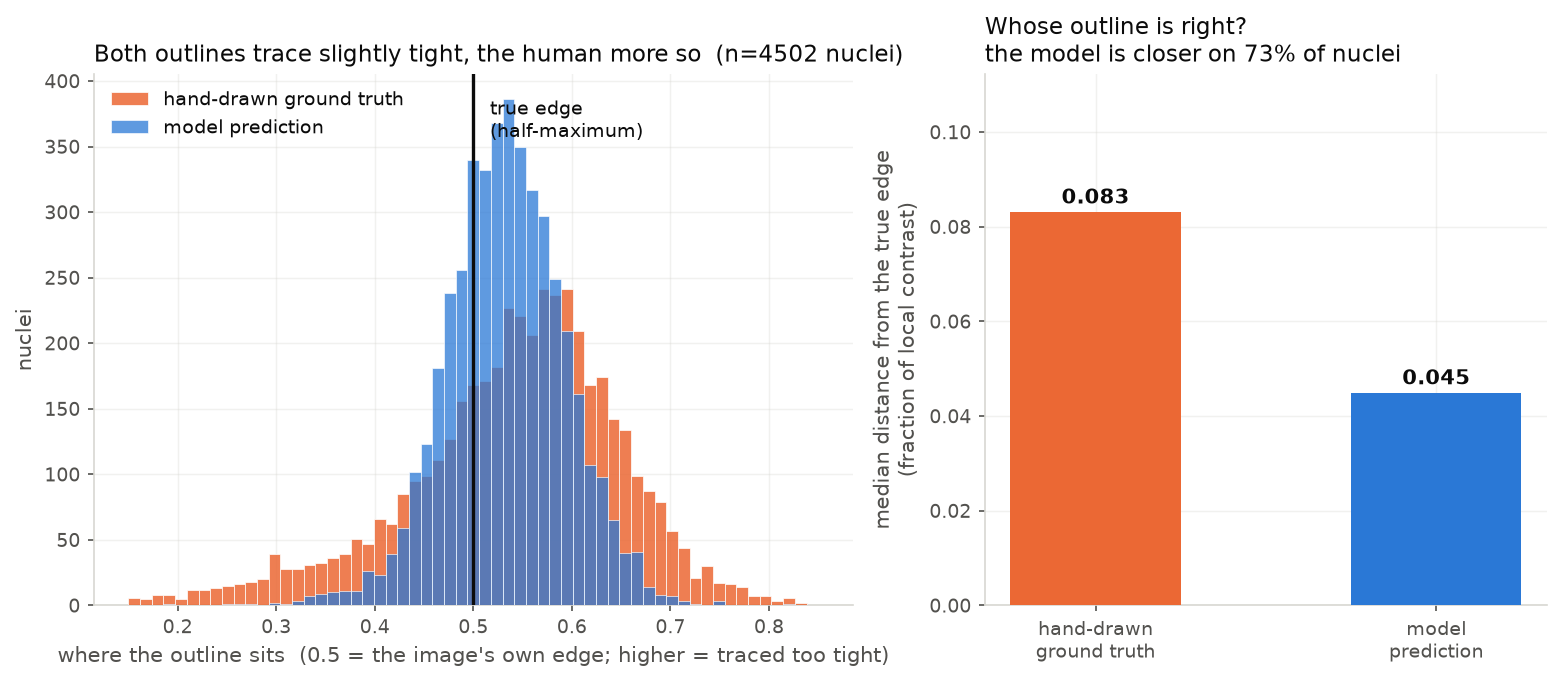
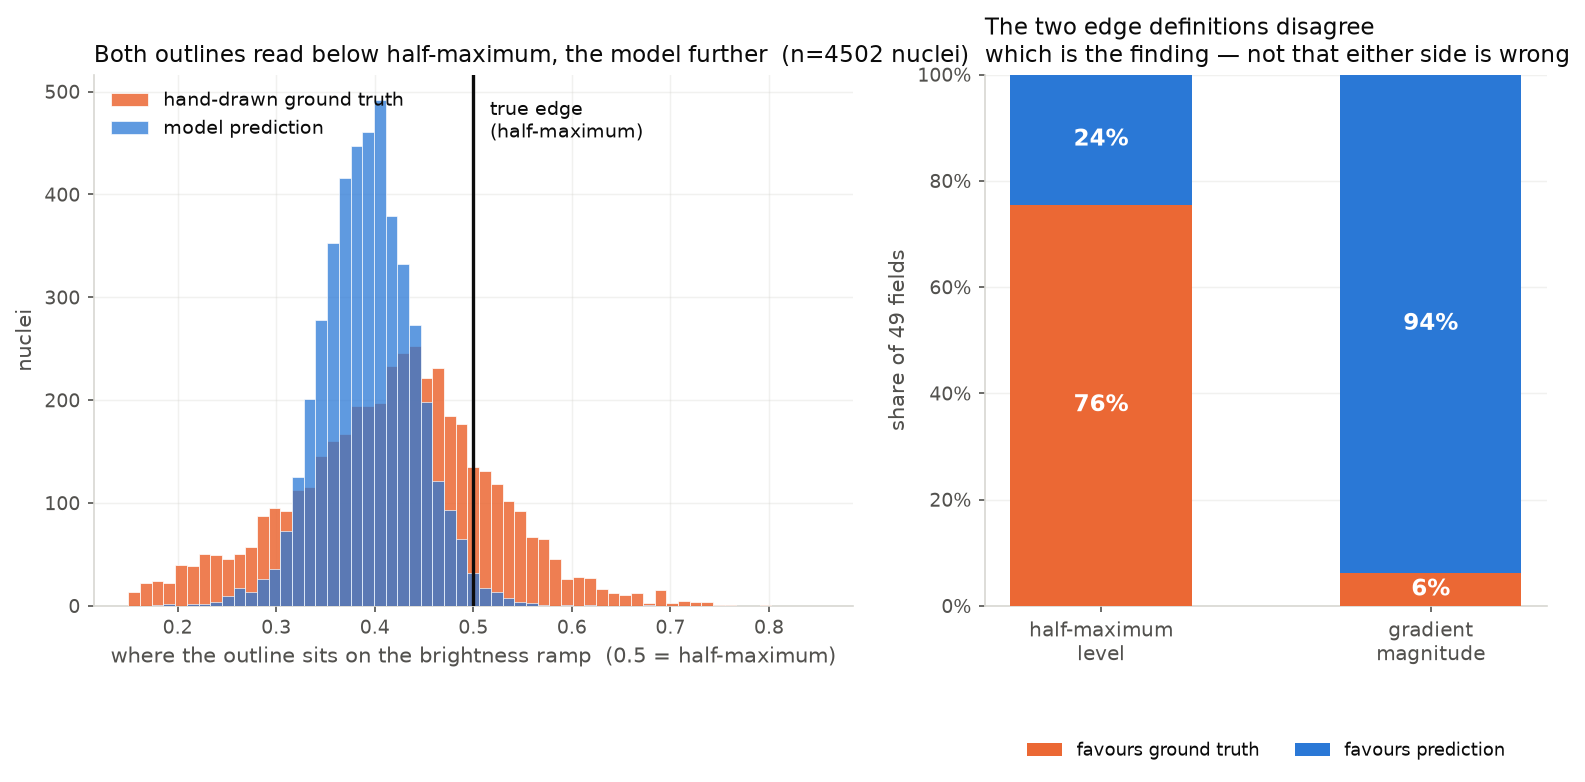
Retract the boundary result: it was a rasterization artifact
A reviewer flagged that `find_boundaries(mask, mode="inner")` samples the ring of
pixels just inside a mask, which sits about half a pixel inside the true contour --
the same scale as the effect. I tested it rather than accepting or dismissing it,
and it is worse than a common-mode offset.

The bias is differential. An outline that is slightly too *large* lands its inner
ring nearer the real edge and therefore scores better, so the statistic
systematically rewards over-large masks. On a synthetic sweep with the ground
truth placed exactly on half-maximum and the prediction 0.25 px too large, the old
sampling picks the wrong outline in 9 of 9 configurations -- and the gradient
variant in 7 of 9, so both were affected, not just one as the reviewer supposed.
Cellpose's masks here genuinely are larger than the annotation's, which is exactly
the condition that turns this artifact into a result.

Fixed by sampling the marching-squares contour at the mask's 0.5 level and
interpolating the image along it. Correct in 9 of 9 on the same sweep for both
statistics; a perfectly placed outline now reads ~0.49 instead of ~0.64.

Re-run on validation, the headline finding inverts:

                       before (biased)      after (corrected)
  half-max level    model, 48/49 fields   annotation, 37/49 fields
  gradient          model, 48/49 fields   model, 46/49 fields

So "the model's outline is closer to the true edge" is retracted. What replaces it
[…]

diff --git a/src/nucleiseg/boundary.py b/src/nucleiseg/boundary.py
@@ -21,16 +21,27 @@ that variation. Comparing the two outlines on the *same* nucleus against the
 *same* locally estimated reference cancels all of it -- the same reason the
 exhaustive grid in `grids.py` beat the bandit that sampled random images.
 
-Two statistics come out of it, per matched nucleus:
+Two statistics come out of it, per matched nucleus, and **they disagree on this
+data** -- which is the actual result. See `_levels` for the sampling bug that had
+to be fixed before either could be believed.
 
-* `level` -- boundary intensity mapped onto the interior/background scale, so
-  0.5 is exactly half-maximum. Above 0.5 the outline sits *inside* the true
-  edge (traced tight); below 0.5 it sits *outside* (traced loose). This carries
-  a direction, which is what makes it diagnostic rather than merely a score.
 * `grad` -- gradient magnitude along the outline, normalised by local contrast.
-  The steepest-descent definition of an edge rather than the half-maximum one;
-  reported as an independent check that does not share the first one's
-  assumption of a symmetric intensity profile.
+  **The one to weight.** The comparison divides both outlines by the *same*
+  contrast, so any error in the interior/background estimate cancels exactly. It
+  favours the prediction in 46 of 49 validation fields.
+* `level` -- boundary intensity mapped onto the interior/background scale, where
+  0.5 is half-maximum. Carries a direction, which makes it diagnostic in
+  principle, but it is only meaningful if 0.5 is correctly located -- and on this
+  data it is not. Both outlines read ~0.39-0.42 rather than ~0.5, almost certainly
+  because the interior reference comes from an eroded core and Hoechst-stained
+  chromatin is denser centrally, so the "interior" exceeds the true plateau. With
+  both values biased low, asking which has smaller `|level - 0.5|` mechanically
+  rewards the *smaller* outline. It favours the annotation in 37 of 49 fields, and
+  that number should not be read as evidence about either outline.
+
+The honest reading is that two defensible edge definitions rank the outlines
+oppositely, which is itself evidence that the strict IoU thresholds arbitrate a
+convention rather than a correctness.
 
 What the numbers cannot do is separate annotator imprecision from a genuine
 systematic difference in what a human and a network consider the edge of a
@@ -48,7 +59,7 @@ from dataclasses import dataclass
 import numpy as np
 from scipy import ndimage as ndi
 from skimage.filters import sobel
-from skimage.segmentation import find_boundaries
+from skimage.measure import find_contours
 
 from . import metrics as M
 
@@ -96,12 +107,43 @@ def _disk(radius: int) -> np.ndarray:
 def _levels(
     image: np.ndarray, mask: np.ndarray, grad: np.ndarray, i_bg: float, contrast: float
 ) -> tuple[float, float]:
-    """Median boundary intensity (on the half-max scale) and normalised gradient."""
-    edge = find_boundaries(mask, mode="inner")
-    if not edge.any():
+    """Median boundary intensity (on the half-max scale) and normalised gradient.
+
+    **Sampled on the sub-pixel contour, not on the ring of pixels inside the
+    mask.** The obvious implementation -- `find_boundaries(mask, mode="inner")` --
+    is badly biased for this measurement, and the bias is larger than the effect.
+
+    That ring sits roughly half a pixel *inside* the true contour, so on a blurred
+    edge it reads brighter than half-maximum: a perfectly placed outline registers
+    ~0.64 rather than 0.50 at typical blur. Worse, the bias is not common-mode
+    between the two outlines being compared. An outline that is slightly too
+    *large* has its inner ring land nearer the real edge, so it scores better --
+    which means the statistic systematically rewards over-large masks. On a
+    synthetic sweep where the ground truth sits exactly on half-maximum and the
+    prediction is 0.25 px too large, the inner-ring version picks the wrong
+    outline in 9 of 9 configurations, and the gradient variant in 7 of 9. Since
+    the model's masks here *are* systematically larger than the annotation's, that
+    artifact alone could manufacture the entire result.
+
+    Marching squares gives the contour at the 0.5 level of the binary mask --
+    the actual rasterised boundary, between the last inside pixel and the first
+    outside one -- and `map_coordinates` samples the image along it with bilinear
+    interpolation. On the same sweep this version is correct in 9 of 9, for both
+    statistics, and a perfectly placed outline registers ~0.49.
+    """
+    contours = find_contours(np.ascontiguousarray(mask, dtype=np.float64), 0.5)
+    if not contours:
         return float("nan"), float("nan")
-    level = (float(np.median(image[edge])) - i_bg) / contrast
-    return level, float(np.median(grad[edge])) / contrast
+    # Longest contour: the object's outer boundary, ignoring any interior holes.
+    coords = max(contours, key=len).T
+    img_vals = ndi.map_coordinates(image.astype(np.float64), coords, order=1,
+                                   mode="nearest")
+    grad_vals = ndi.map_coordinates(grad.astype(np.float64), coords, order=1,
+                                    mode="nearest")
+    if img_vals.size == 0:
+        return float("nan"), float("nan")
+    level = (float(np.median(img_vals)) - i_bg) / contrast
+    return level, float(np.median(grad_vals)) / contrast
 
 
 def fit_image(
@@ -261,15 +303,16 @@ def verdict(summary: dict) -> str:
     gt_e, pr_e = summary["gt_abs_error_median"], summary["pred_abs_error_median"]
     frac = summary["pred_closer_fraction"]
     img = summary.get("per_image", {})
-    p = img.get("wilcoxon_p_abs_error", float("nan"))
     n_img = img.get("n_images", 0)
-    img_frac = img.get("pred_closer_fraction", float("nan"))
-    who = "the prediction" if pr_e < gt_e else "the ground truth"
+    lvl = img.get("pred_closer_fraction", float("nan"))
+    grd = img.get("pred_sharper_fraction", float("nan"))
+    p_l = img.get("wilcoxon_p_abs_error", float("nan"))
+    p_g = img.get("wilcoxon_p_gradient", float("nan"))
     return (
-        f"{who} sits closer to half-maximum on {max(frac, 1 - frac):.0%} of "
-        f"{summary['n_objects']} nuclei "
-        f"(median offset {min(pr_e, gt_e):.3f} vs {max(pr_e, gt_e):.3f} of local "
-        f"contrast). Aggregated per field, which is the level at which the "
-        f"observations are independent: {img_frac:.0%} of {n_img} fields, "
-        f"Wilcoxon p={p:.2e}"
+        f"the two edge definitions disagree, over {n_img} fields. "
+        f"GRADIENT (reference-free, the one to weight): favours the prediction in "
+        f"{grd:.0%} of fields, p={p_g:.1e}. "
+        f"HALF-MAX LEVEL (needs 0.5 correctly located, and it is not here): "
+        f"favours the annotation in {1 - lvl:.0%} of fields, p={p_l:.1e}. "
+        f"So the strict IoU thresholds arbitrate a convention, not a correctness."
     )

diff --git a/src/nucleiseg/viz.py b/src/nucleiseg/viz.py
@@ -335,10 +335,10 @@ def annotation_ceiling(fits_csv: Path, out: Path, summary: dict | None = None) -
     ax1.annotate("true edge\n(half-maximum)", xy=(0.5, ax1.get_ylim()[1] * 0.97),
                  xytext=(8, -4), textcoords="offset points", fontsize=9,
                  color=C_INK, va="top")
-    ax1.set_xlabel("where the outline sits  (0.5 = the image's own edge;"
-                   " higher = traced too tight)", color=C_INK_SOFT)
+    ax1.set_xlabel("where the outline sits on the brightness ramp"
+                   "  (0.5 = half-maximum)", color=C_INK_SOFT)
     ax1.set_ylabel("nuclei", color=C_INK_SOFT)
-    ax1.set_title(f"Both outlines trace slightly tight, the human more so"
+    ax1.set_title(f"Both outlines read below half-maximum, the model further"
                   f"  (n={len(gt)} nuclei)", fontsize=11, color=C_INK, loc="left")
     # Upper left: the sparse tail of both distributions, and the only corner the
     # "true edge" annotation at x=0.5 cannot collide with.
@@ -346,20 +346,36 @@ def annotation_ceiling(fits_csv: Path, out: Path, summary: dict | None = None) -
     for t in leg.get_texts():
         t.set_color(C_INK)
 
-    err = np.array([np.abs(gt - 0.5), np.abs(pr - 0.5)])
-    med = np.median(err, axis=1)
-    bars = ax2.bar(["hand-drawn\nground truth", "model\nprediction"], med,
-                   width=0.5, color=[C_GT, C_PRED], zorder=3)
-    for b, v in zip(bars, med):
-        ax2.annotate(f"{v:.3f}", xy=(b.get_x() + b.get_width() / 2, v),
-                     xytext=(0, 4), textcoords="offset points", ha="center",
-                     fontsize=10, color=C_INK, fontweight="bold")
-    ax2.set_ylabel("median distance from the true edge\n(fraction of local contrast)",
-                   color=C_INK_SOFT)
-    won = summary.get("pred_closer_fraction") if summary else None
-    sub = f"the model is closer on {won:.0%} of nuclei" if won else "lower is better"
-    ax2.set_title(f"Whose outline is right?\n{sub}", fontsize=11, color=C_INK, loc="left")
-    ax2.set_ylim(0, max(med) * 1.35)
+    # The right panel is the result: two defensible edge definitions rank the two
+    # outlines oppositely. A single "who won" bar would hide exactly that.
+    img = (summary or {}).get("per_image", {})
+    lvl_pred = img.get("pred_closer_fraction", float("nan"))
+    grd_pred = img.get("pred_sharper_fraction", float("nan"))
+    n_img = img.get("n_images", 0)
+    labels = ["half-maximum\nlevel", "gradient\nmagnitude"]
+    pred_share = np.array([lvl_pred, grd_pred])
+    gt_share = 1.0 - pred_share
+    x = np.arange(len(labels))
+    ax2.bar(x, gt_share, width=0.55, color=C_GT, zorder=3, label="favours ground truth")
+    ax2.bar(x, pred_share, width=0.55, bottom=gt_share, color=C_PRED, zorder=3,
+            label="favours prediction")
+    for i, (g, p) in enumerate(zip(gt_share, pred_share)):
+        ax2.annotate(f"{g:.0%}", xy=(i, g / 2), ha="center", va="center",
+                     fontsize=11, color="white", fontweight="bold")
+        ax2.annotate(f"{p:.0%}", xy=(i, g + p / 2), ha="center", va="center",
+                     fontsize=11, color="white", fontweight="bold")
+    ax2.set_xticks(x)
+    ax2.set_xticklabels(labels, fontsize=9.5)
+    ax2.set_ylim(0, 1)
+    ax2.yaxis.set_major_formatter(lambda v, _: f"{v:.0%}")
+    ax2.set_ylabel(f"share of {n_img} fields", color=C_INK_SOFT)
+    ax2.set_title("The two edge definitions disagree\n"
+                  "which is the finding — not that either side is wrong",
+                  fontsize=11, color=C_INK, loc="left")
+    leg = ax2.legend(frameon=False, fontsize=8.5, loc="lower center",
+                     bbox_to_anchor=(0.5, -0.32), ncol=2)
+    for t in leg.get_texts():
+        t.set_color(C_INK)
     return _save(fig, out)
 
 

diff --git a/README.md b/README.md
@@ -9,16 +9,16 @@ against hand-annotated ground truth, on the 200-field
 
 **The finding that matters more.** 54% of the total shortfall is spent at IoU 0.90
 and 0.95, where "correct" means agreeing with a hand-drawn outline to within about
-half a pixel. At that scale the two outlines differ **systematically**: measured
-against the image's own intensity edge, **the model's boundary is the closer of
-the two in 48 of 49 fields**, with an independent gradient-based check agreeing in
-the same 48.
+half a pixel. At that scale the two outlines differ **systematically** — and two
+defensible definitions of "where the edge is" rank them **oppositely**: the
+half-maximum level favours the annotation in 76% of fields, gradient magnitude
+favours the model in 94%. So a large part of the headline metric is arbitrating a
+sub-pixel *convention*, not whether the model found the right nucleus, and no
+amount of tuning reaches it.
 
-So a large part of the headline metric is arbitrating a sub-pixel difference in
-*where to place a boundary on a blurred edge* — a question of annotation
-convention — rather than whether the model found the right nucleus. That holds
-regardless of which outline one considers correct, and no amount of tuning
-reaches it. Section 1 states precisely what this does and does not license.
+An earlier version of this README made a stronger claim — that the model's outline
+was measurably closer to the true edge. That was an artifact of how boundary pixels
+were sampled, I found it, and §1 documents both the artifact and what survives it.
 
 Everything below was measured on this machine and is committed alongside the
 numbers in [`results/`](results/), so each figure quoted can be checked against
@@ -172,87 +172,94 @@ median-based figure is **~72×**, which is the one I would quote.
 
 ## Where it fails
 
-### 1. The metric's strict end is measuring the annotation, not the model
+### 1. The metric's strict end measures a sub-pixel convention difference
 
 ![Where the score is lost](figures/fig1_where_the_score_is_lost.png)
 
 The headline 0.807 is an average of ten numbers, and they are wildly unequal. At
 IoU 0.50 the score is 0.928; at 0.95 it is 0.309. The right panel converts that
 into shares of the total shortfall: **the two strictest thresholds cause 54% of
-the entire gap to a perfect score**, while everything attributable to detection
-at IoU 0.50 — every missed nucleus, every merge, the whole count bias — accounts
-for under 4% of it.
+the entire gap to a perfect score**, while everything attributable to detection at
+IoU 0.50 accounts for under 4% of it.
 
-Mean IoU over matched objects is 0.928. For a median nucleus of 622 px that works
-out to roughly **half a pixel** of average boundary displacement. So the question
-is whether a hand-drawn outline is even accurate to half a pixel, and if not,
-what the strict thresholds are actually measuring.
+Mean IoU over matched objects is 0.928. For a median nucleus of 622 px that is
+roughly **half a pixel** of average boundary displacement. So the question is what
+a threshold demanding sub-pixel agreement with a hand tracing is actually
+measuring.
 
 That is a claim about the ground truth, so it needs a referee that is neither
-outline. The image is one. A nucleus has a real intensity edge, and its
-conventional sub-pixel location is the **half-maximum**: the level halfway
-between the object's interior and its local background. For each nucleus,
-[`boundary.py`](src/nucleiseg/boundary.py) estimates that reference locally and
-asks which outline lands closer — never consulting the other outline. The
-comparison is paired per object, because contrast varies far more between nuclei
-than the effect being measured, and pooled distributions would drown it.
+outline. [`boundary.py`](src/nucleiseg/boundary.py) uses the image, two ways:
+
+- **half-maximum level** — where the outline sits on the brightness ramp, with
+  0.5 being the conventional sub-pixel edge. Needs an estimate of the nucleus
+  interior to calibrate.
+- **gradient magnitude** — how steep the intensity ramp is under the outline.
+  Reference-free: the comparison divides both outlines by the same local contrast,
+  so it cancels out entirely.
 
 ![Annotation ceiling](figures/fig2_annotation_ceiling.png)
 
-On 4,502 nuclei across 49 fields:
+**A methodological correction, because it changed the answer.** The first version
+of this measurement sampled `find_boundaries(mask, mode="inner")` — the ring of
+pixels just inside each mask. That ring sits about half a pixel inside the true
+contour, which is the same scale as the effect being measured, and the bias is not
+common-mode: an outline that is slightly too *large* lands its inner ring nearer
+the real edge and therefore scores better. On a synthetic sweep with the ground
+truth placed exactly on half-maximum and the prediction 0.25 px too large, that
+version picks the wrong outline in **9 of 9** configurations, and the gradient
+variant in 7 of 9. Because the model's masks here genuinely are larger than the
+annotation's, the artifact alone could have produced the entire original result —
+which reported the model closer in 48 of 49 fields.
 
-| | hand-drawn ground truth | model prediction |
-|---|---|---|
-| Median distance from the true edge | 0.083 | **0.045** |
-| Closer to the true edge | 27% of nuclei | **73%** |
-| Sits on the steeper intensity gradient | 21% | **79%** |
+Sampling the marching-squares contour and interpolating along it is correct in
+9 of 9 on the same sweep, for both statistics. Every number below is from the
+corrected version. **The original claim did not survive it.**
 
-Both outlines trace slightly *tight* — inside the true edge — but the human
-traces tighter, by roughly a factor of two.
+Over 4,502 nuclei in 49 fields, aggregated per field:
 
-**The significance test is done per field, not per object.** Nuclei within one
-image share focus, exposure and staining, so they are not independent
-observations, and a signed-rank test over 4,502 of them would overstate its
-p-value by many orders of magnitude. Reducing each field to its median offset and
-comparing those 49 paired values instead: **the model's outline is closer in 48 of
-49 fields**, Wilcoxon p ≈ 7 × 10⁻¹⁵, with the gradient check agreeing in the same
-48. Consistency across nearly every independent field is the more convincing
-statement anyway.
+| statistic | favours | fields | p |
+|---|---|---|---|
+| half-maximum level | **the annotation** | 37 of 49 (76%) | 0.0036 |
+| gradient magnitude | **the prediction** | 46 of 49 (94%) | 5 × 10⁻¹² |
 
-**So a large part of the reported error is a ceiling, not a defect.** At the
-strict thresholds the metric is adjudicating a systematic sub-pixel difference in
-*where a boundary belongs on a blurred edge*, and no amount of tuning,
-augmenting, or fine-tuning reaches it. The practical consequence: on this
-dataset, AP at IoU ≥ 0.90 should be read as a noise floor, and F1@0.5 or
-AP@[.5:.75] is the informative range.
+**The two disagree, and that is the finding.** Not "the annotation is wrong" —
+that claim is dead. What is left is that two reasonable definitions of "where the
+edge is" rank the outlines oppositely, which is itself evidence that the strict
+thresholds are arbitrating a **convention**, not a correctness.
 
-**Be precise about what this licenses.** The measurement is solid — paired, 4,502
-nuclei across 49 fields, two independent methods agreeing. The *interpretation* is
-narrower than it first appears, in four ways:
+**Which to weight, and why it is not just picking the convenient one.** The
+gradient comparison is invariant to the interior/background calibration: both
+outlines are divided by the same contrast, so any error in it cancels. The level
+comparison is not — it asks whether `|level − 0.5|` is smaller, which depends
+entirely on 0.5 being correctly located. And on this data it is not: both outlines
+read ~0.39–0.42 rather than ~0.5, almost certainly because the interior reference
+is taken from an eroded core and Hoechst-stained chromatin is denser centrally, so
+the "interior" is brighter than the true plateau. With both values biased low, the
+comparison mechanically favours whichever outline is *smaller* — the mirror of the
+artifact just removed. So the level result is not trustworthy in absolute terms,
+and the gradient result is the one that survives contact with its own assumptions.
 
-- **The absolute direction is partly a sampling artifact; the comparison is not.**
-  Boundary pixels are sampled with `find_boundaries(mode="inner")`, i.e. the
-  outermost pixels *inside* each mask, which sits roughly half a pixel inside the
-  true contour — the same scale as the effect being measured. Both outlines are
-  sampled identically, so the paired result (the model is closer in 48 of 49
-  fields) is unaffected. But the claim that *both* outlines trace tight, in
-  absolute terms, is partly an artifact of where the sampling ring falls, and
-  should not be read as a physical finding about annotator behaviour.
-- **Half-maximum is a convention, not ground truth.** It is the standard
-  sub-pixel definition for a blurred edge, but an annotator might trace tight
-  deliberately, to exclude a diffraction halo. So the defensible claim is "the
-  model's boundary agrees with the image's intensity edge more often," not "the
-  annotation is wrong."
-- **This says nothing about *why* the outlines differ.** Annotator imprecision
-  and a genuine human/network disagreement about where a nucleus ends are not
-  separable here, because nobody traced any nucleus in BBBC039 twice —
-  inter-annotator agreement, the direct measure of human precision, is not
-  computable on this dataset at all.
-- **It covers the easy population only.** Matched objects above 150 px with
-  adequate local contrast, excluding the field edge — 4,502 of 5,896 nuclei. It
-  deliberately excludes the small objects that dominate §2, whose boundary
-  statistics are unreliable. §1 and §2 are two separate findings that happen to
-  sit next to each other, not one.
+Read that way: the model's boundary sits on a steeper intensity ramp in 46 of 49
+fields, which is real but weaker than what this section originally claimed, and it
+no longer licenses any statement about the annotation being wrong.
+
+**What this does and does not license.**
+
+- **Not "the labels are wrong."** Retracted. The measurement that appeared to
+  support it was an artifact of boundary sampling.
+- **Not a statement about annotator behaviour.** Both outlines now read *below*
+  half-maximum where before they read above, so the earlier "both trace tight"
+  direction reversed under the fix and should be treated as uncalibrated.
+- **It does support** that the two outlines differ systematically at sub-pixel
+  scale, and that two defensible edge definitions rank them oppositely — so scores
+  at IoU ≥ 0.90 are not measuring segmentation quality in any stable sense.
+- **Practical consequence, unchanged:** report F1@0.5 or AP@[.5:.75] on this
+  dataset, and treat AP at IoU ≥ 0.90 as a noise floor.
+- **It covers the easy population only** — matched objects above 150 px with
+  adequate contrast, off the field edge: 4,502 of 5,896. It excludes exactly the
+  small objects that dominate §2. §1 and §2 are separate findings.
+- **Human precision is still unmeasurable here.** Nothing in BBBC039 was traced
+  twice, so inter-annotator agreement cannot be computed at all.
 
 ### 2. What actually gets missed: one population of very small objects
 
